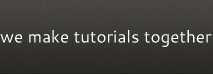
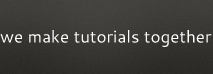
Added new introduction box to the frontpage of the site.

diff --git a/src/static/style.css b/src/static/style.css
@@ -324,7 +324,7 @@ div.warning p {
 #account {
     float: left;
     position: absolute;
-    right: 35px;
+    right: 36px;
     top: 26px;
     color: #ddd;
 }
@@ -336,6 +336,72 @@ div.warning p {
 #account a:hover {
     color: #D26B19;
 }
+
+/* Intro */
+
+#introcontainer {
+    height: 204px;
+    background: url('images/intro_bg.png') repeat-x;
+    text-align: center;
+}
+
+#intro {
+    margin: 0 auto;
+    text-align: left;
+    width: 848px;
+    height: 154px;
+    padding: 25px 16px;
+}
+
+#intro img {
+    float: left;
+}
+
+#intro_text {
+    float: left;
+    margin-top: 23px;
+    margin-left: 25px;
+    font-size: 15px;
+}
+
+#intro_text p {
+    margin-top: 0;
+}
+
+#intro_photos_4small {
+    margin-top: 18px;
+    margin-left: 35px;
+}
+
+#join_box {
+    float: left;
+    background: url('images/join_box.png') no-repeat;
+    height: 110px;
+    width: 209px;
+    position: relative;
+    top: 13px;
+    left: 58px;
+}
+
+#join_button {
+    position: relative;
+    left: 61px;
+    top: 54px;
+}
+
+#join_box a:active {
+    position: relative;
+    top: 1px;
+}
+
+#intro_text p {
+    line-height: 1.6;
+    position: relative;
+    top: 3px;
+}
+
+
+/* Footer */
 
 #footer {
     margin: 0 auto;
@@ -409,20 +475,6 @@ div.warning p {
 
 #content textarea {
     width: 735px;
-}
-
-#intro_box {
-    margin-top: 5px;
-    color: white;
-    position: relative;
-    height: 147px;
-}
-
-#intro_box p {
-    position: absolute;
-    top: 60px;
-    left: 27px;
-    font-size: 13px;
 }
 
 .contentbox_top {

diff --git a/src/templates/home.html b/src/templates/home.html
@@ -1,6 +1,22 @@
 {% extends "base.html" %}
 {% block page_title %}SimpleEditions - Tutorials made simple{% endblock %}
 {% block page_title_suffix %}{% endblock %}
+{% block slogan %}{% endblock %}
+{% block intro %}
+    <div id="introcontainer">
+        <div id="intro">
+            <img src="{{ "images/intro_photos_large.png"|static }}" id="intro_photos_large" />
+            <div id="intro_text">
+                <img src="{{ "images/together_we_knowhow.png"|static }}" id="intro_photos_large" />
+                <p class="breaker">High quality tutorials that get straight to the point, <br/>
+                written collaboratively by you and me. <a href="/about">Learn more</a>.</p>
+            </div>
+            <div id="join_box">
+                <a href="/sign-up"><img src="{{ "images/join_button.png"|static }}" id="join_button" /></a>
+            </div>
+        </div>
+    </div>
+{% endblock %}
 {% block page_content %}
     <div id="recent_articles" class="article_list_container">
         <h1>Recent</h1>

diff --git a/src/templates/base.html b/src/templates/base.html
@@ -26,7 +26,7 @@
     <div id="headercontainer">
         <div id="header">
             <a href="/"><img alt="SimpleEditions" src="{{ "images/logo.png"|static }}" id="logo" /></a>
-            <img src="{{ "images/slogan.png"|static }}" id="slogan" alt="we make tutorials together" />
+            {% block slogan %}<img src="{{ "images/slogan.png"|static }}" id="slogan" alt="we make tutorials together" />{% endblock %}
             <div id="account">
                 {% if user %}
                 Logged in as <a href="/user/{{ user.canonical_name }}"><strong>{{ user.display_name }}</strong></a>. <a href="/logout?continue={{ request.path|urlencode }}">Log out</a>
@@ -36,6 +36,7 @@
             </div>
         </div>
     </div>
+    {% block intro %}{% endblock %}
     <div id="contentcontainer">
         <div id="content">
             {% block page_content %}{% endblock %}
